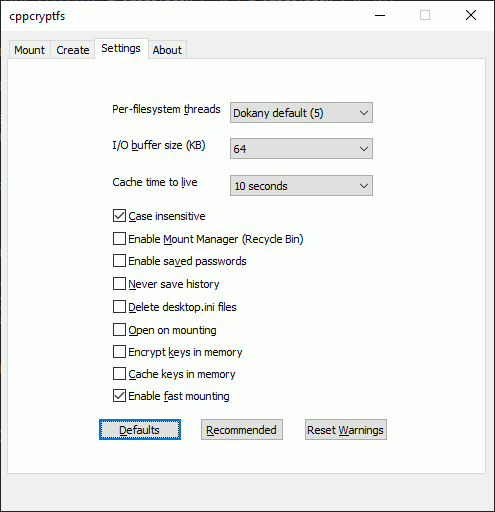
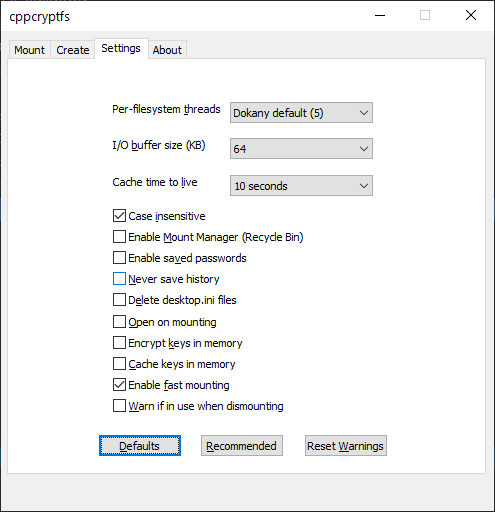
udpate readme, changelog, and screenshot (for prompting when dismounting fs is in use)

Changed region(s): [[0.1818, 0.4375, 0.6061, 0.9062], [0.6061, 0.8125, 0.7879, 0.9062], [0.0303, 0.0, 0.1515, 0.0625]]

diff --git a/README.md b/README.md
@@ -70,7 +70,7 @@ Build Requirements
 
 There are detailed build instructions in [INSTALL.md](INSTALL.md).
 
-cppcryptfs is currently up-to-date with Dokany 1.4.0.1000
+cppcryptfs is currently up-to-date with Dokany 1.5.0.2000
 
 
 Use
@@ -301,9 +301,6 @@ When the system is about to enter standby or hibernation modes, cppcryptfs autom
 
 This setting is not enabled in either the Default or Recommended settings.
 
-**Defaults and Recommended**
-
-Currently, the default and recommended settings are the same.
 
 **Enable fast mounting**
 
@@ -319,6 +316,19 @@ With this setting enabled, a successful mount operation is indicated as such on 
 Note:  this setting has no effect when the mount point is an empty NTFS directory and not a drive letter.  Dokany signals a successful mounting quickly if the mount point is a directory, and polling doesn't make sense in this case.
 
 This setting is enabled by default.
+
+** Warn if in use when dismountig **
+
+If this setting is on, then if there are still any open files or directories 
+on a mounted filesystem when the user tries to dismount the filesystem,
+dismount all filesystems, or exit the program, then cppcryptfs will notify
+the user and ask if it should proceed with dismounting.
+
+If this setting is on, then the --force flag is needed on the command line when dismounting filesystems that are in use. 
+
+**Defaults and Recommended**
+
+Currently, the default and recommended settings are the same.
 
 **Reset Warnings**
 
@@ -412,6 +422,7 @@ Mounting:
 Unmounting:
   -u, --unmount=D          unmount drive letter D or dir DIR
   -u, --unmount=all        unmount all drives
+  -f, --force              force unmounting if in use
 
 Misc:
   -t, --tray               hide in system tray

diff --git a/changelog.md b/changelog.md
@@ -3,6 +3,12 @@
 Changelog
 ------------
 
+v1.4.3.7, May 31 2021
+* Close any left over open file or dirctory handles when dismounting a 
+  filesystem (issue #126).
+* Add setting to prompt user when dismounting a filesystem that is still
+  in use (has open file or directory handles).
+
 v1.4.3.6, Feb 7 2021
 * Improve concurrency.
 * Fix tab order in ui.
